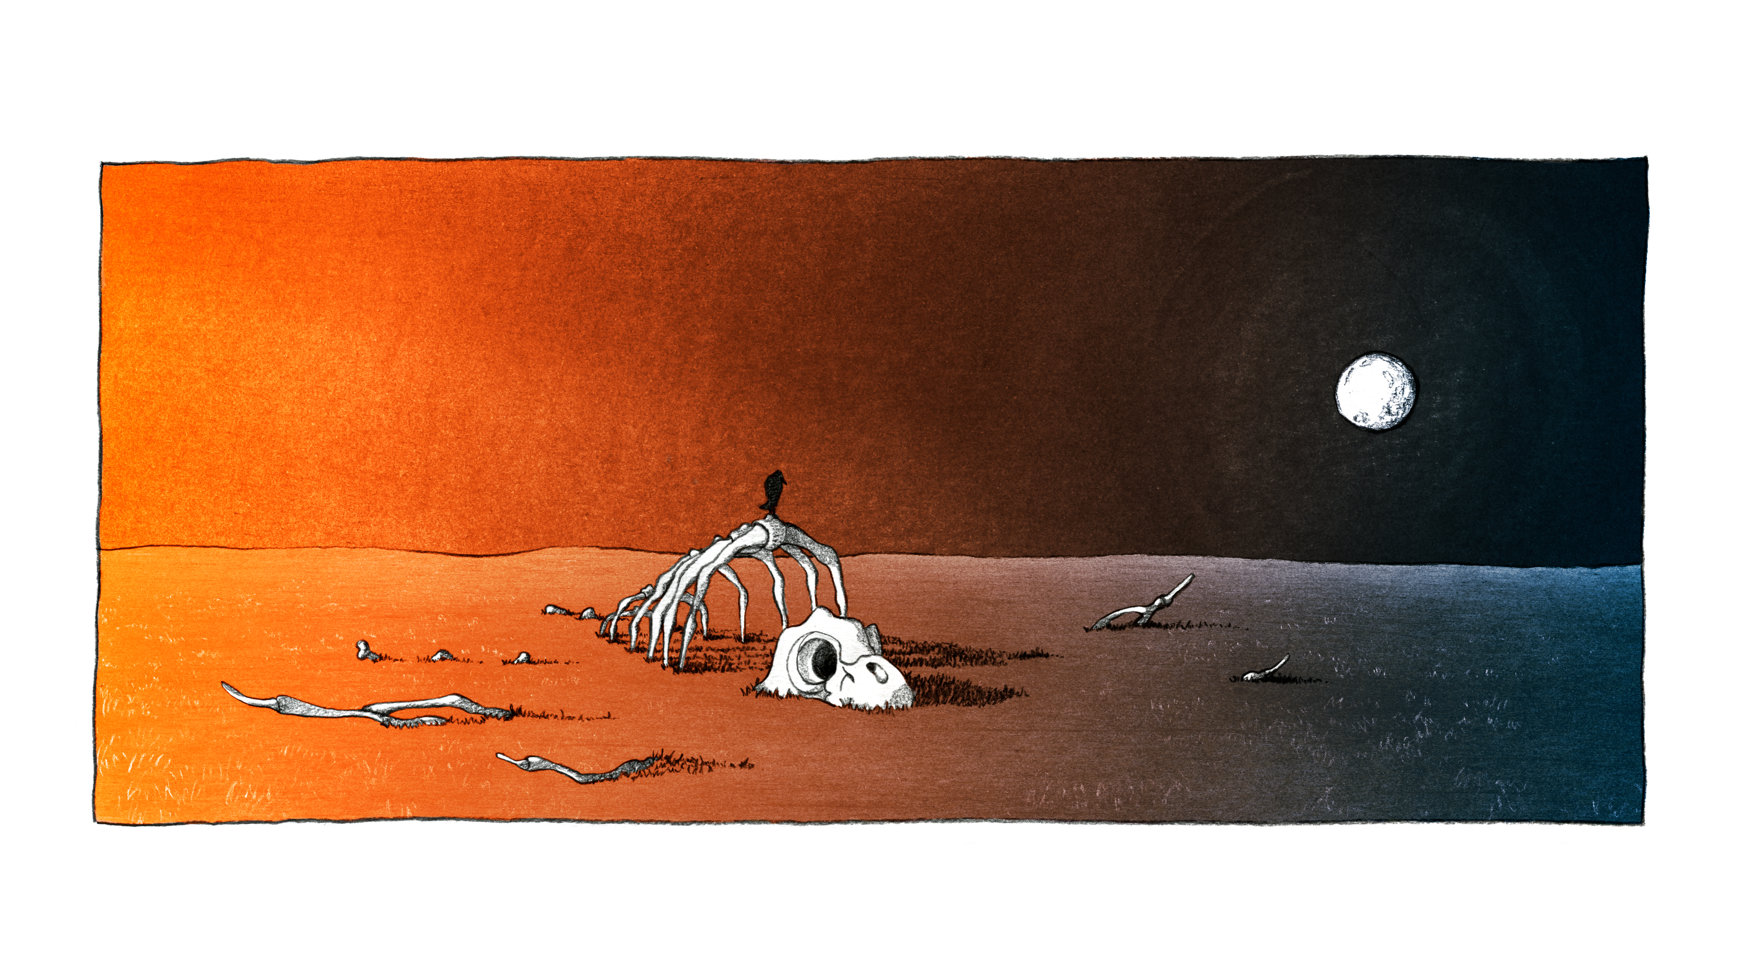
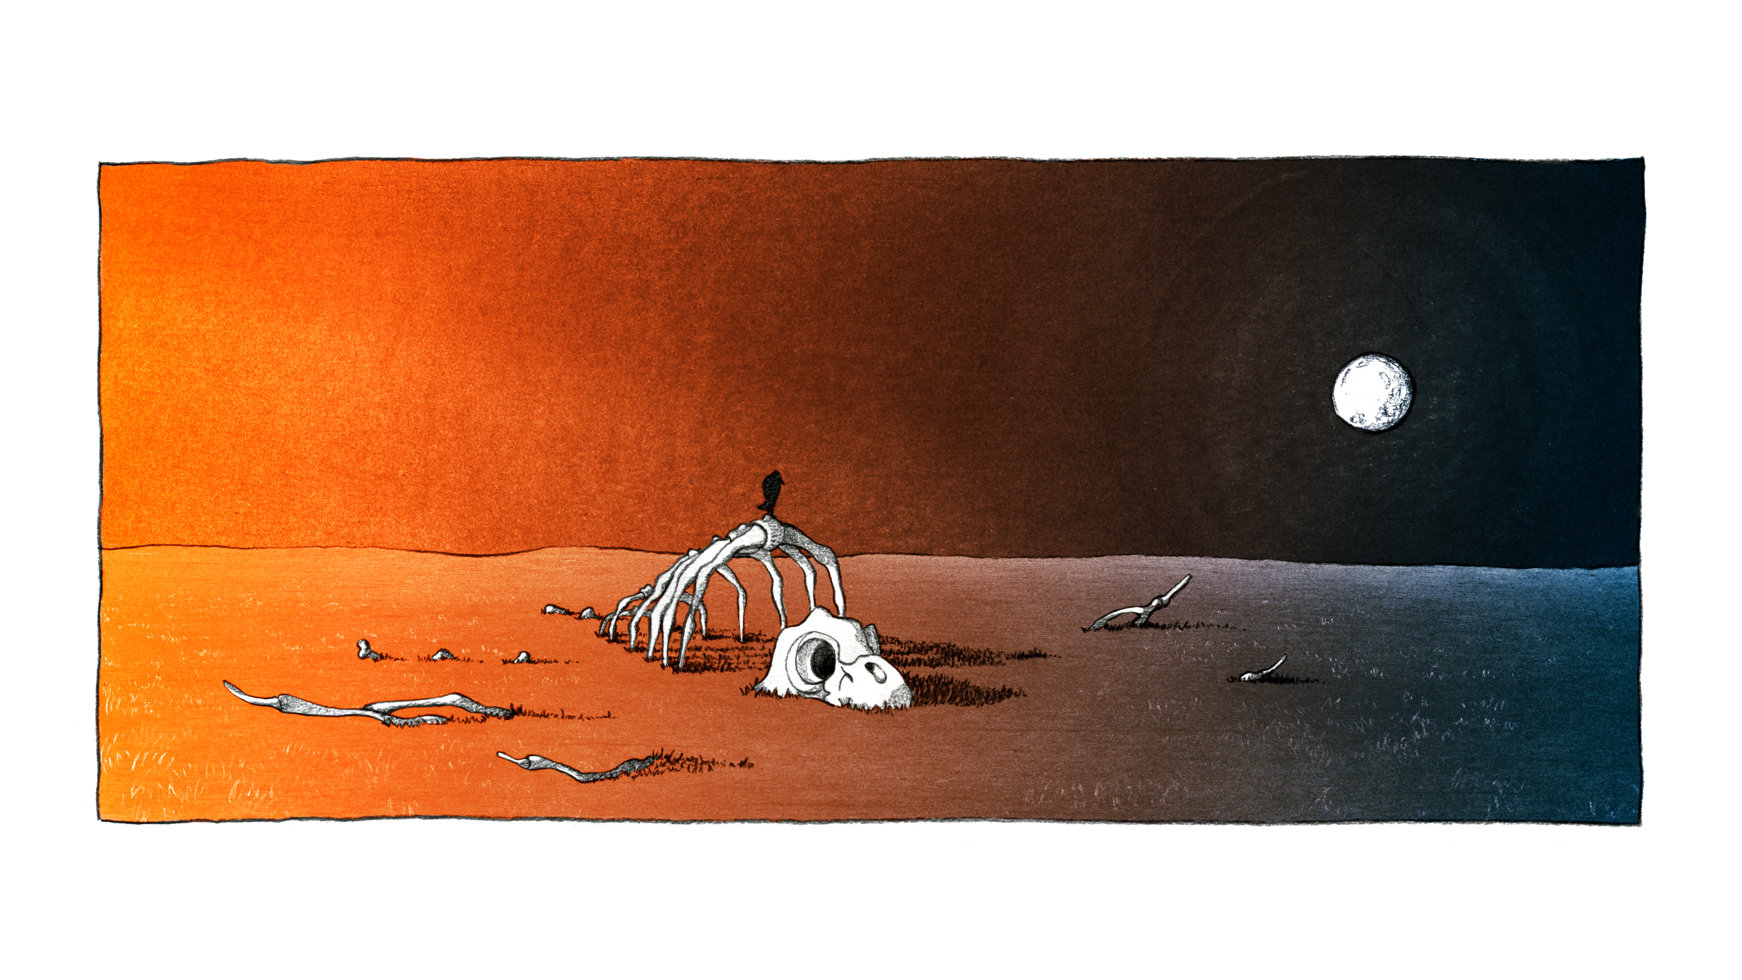
Illustration fix

diff --git a/index.html b/index.html
@@ -22,7 +22,7 @@
 <meta property="og:title" content="Home" />
 <meta property="og:site_name" content="Jesse Manschot" />
 <meta property="og:description" content="Animator, illustrator and editor living and working in the Netherlands" />
-<meta property="og:image" content="https://www.jessemanschot.nl/media/images//portfolio_fp/jesse-manschot_2025-01-22_twilight_sq-web-frontpage.png" />
+<meta property="og:image" content="https://www.jessemanschot.nl/media/images//portfolio_fp/jesse-manschot_2025-01-22_Twilight_web_frontpage.jpg" />
 <meta property="og:image:alt" content="Twilight" />
 <link rel="stylesheet" type="text/css" media="all" href="/media/extensions/slider.css" />
 <script type="text/javascript" defer="defer" src="/media/extensions/slider-splide.min.js"></script>
@@ -50,7 +50,7 @@
 </div>
 <div class="content">
 <div class="main" role="main">
-<p><img src="/media/images//portfolio_fp/jesse-manschot_2025-01-22_twilight_sq-web-frontpage.png" width="840" height="472" alt="Twilight" title="Twilight" /></p>
+<p><img src="/media/images//portfolio_fp/jesse-manschot_2025-01-22_Twilight_web_frontpage.jpg" width="840" height="524" alt="Twilight" title="Twilight" /></p>
 
 <p><br></p>
 </div>
